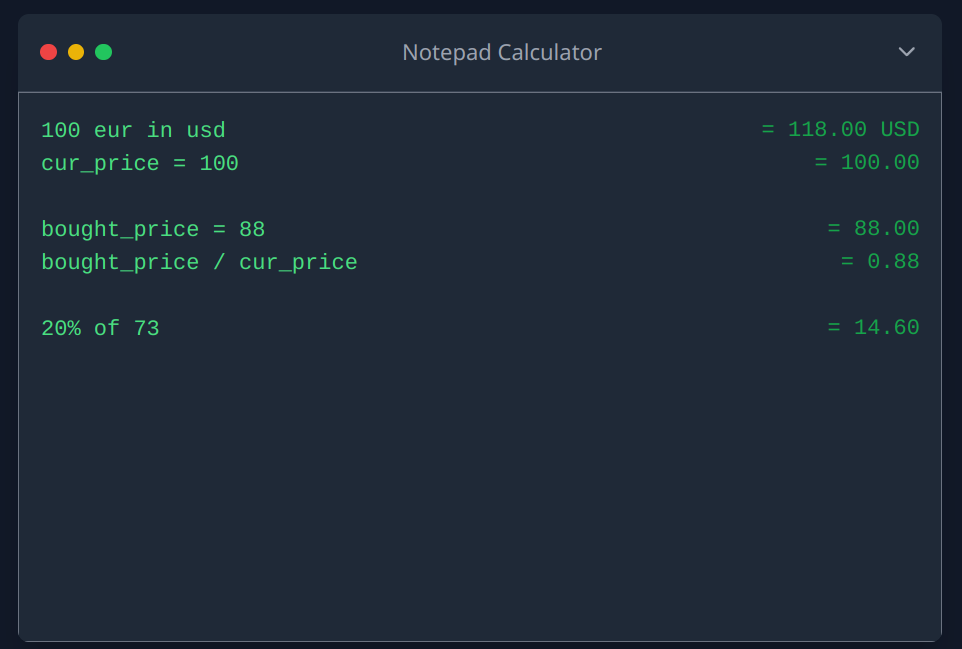
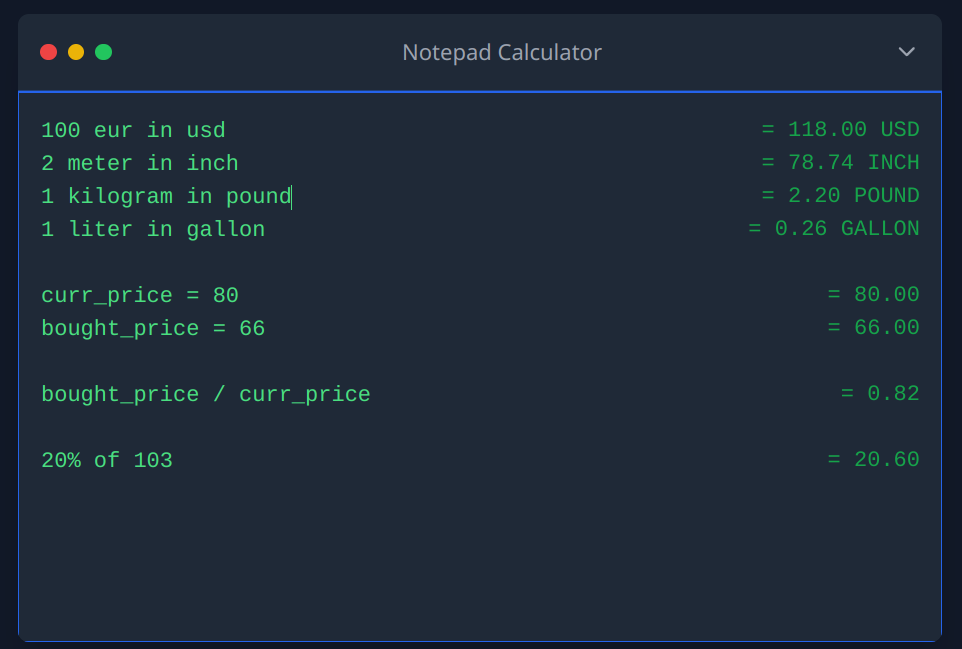
add new conversions

diff --git a/src/components/Calculator.jsx b/src/components/Calculator.jsx
@@ -58,7 +58,26 @@ const handleConversion = (tokens) => {
   const rates = {
     usd: { eur: 0.85, gbp: 0.73 },
     eur: { usd: 1.18, gbp: 0.86 },
-    gbp: { usd: 1.37, eur: 1.16 }
+    gbp: { usd: 1.37, eur: 1.16 },
+    // Length conversions
+    meter: { kilometer: 0.001, centimeter: 100, millimeter: 1000, inch: 39.3701, foot: 3.28084 },
+    kilometer: { meter: 1000, centimeter: 100000, millimeter: 1000000, inch: 39370.1, foot: 3280.84 },
+    centimeter: { meter: 0.01, kilometer: 0.00001, millimeter: 10, inch: 0.393701, foot: 0.0328084 },
+    millimeter: { meter: 0.001, kilometer: 0.000001, centimeter: 0.1, inch: 0.0393701, foot: 0.00328084 },
+    inch: { meter: 0.0254, kilometer: 0.0000254, centimeter: 2.54, millimeter: 25.4, foot: 0.0833333 },
+    foot: { meter: 0.3048, kilometer: 0.0003048, centimeter: 30.48, millimeter: 304.8, inch: 12 },
+    // Weight conversions
+    kilogram: { gram: 1000, milligram: 1000000, pound: 2.20462, ounce: 35.274 },
+    gram: { kilogram: 0.001, milligram: 1000, pound: 0.00220462, ounce: 0.035274 },
+    milligram: { kilogram: 0.000001, gram: 0.001, pound: 0.00000220462, ounce: 0.000035274 },
+    pound: { kilogram: 0.453592, gram: 453.592, milligram: 453592, ounce: 16 },
+    ounce: { kilogram: 0.0283495, gram: 28.3495, milligram: 28349.5, pound: 0.0625 },
+    // Volume conversions
+    liter: { milliliter: 1000, cubic_meter: 0.001, gallon: 0.264172, quart: 1.05669 },
+    milliliter: { liter: 0.001, cubic_meter: 0.000001, gallon: 0.000264172, quart: 0.00105669 },
+    cubic_meter: { liter: 1000, milliliter: 1000000, gallon: 264.172, quart: 1056.69 },
+    gallon: { liter: 3.78541, milliliter: 3785.41, cubic_meter: 0.00378541, quart: 4 },
+    quart: { liter: 0.946353, milliliter: 946.353, cubic_meter: 0.000946353, gallon: 0.25 }
   };
 
   if (rates[fromUnit] && rates[fromUnit][toUnit]) {

diff --git a/README.md b/README.md
@@ -17,6 +17,22 @@
 ### Currency Conversions
 - **Syntax:** `amount from_currency in to_currency`
 - **Example:** `10 USD in EUR`
+- **Supported Currencies:** USD, EUR, GBP
+
+### Length Conversions
+- **Syntax:** `amount from_unit in to_unit`
+- **Example:** `1 meter in inch`
+- **Supported Units:** meter, kilometer, centimeter, millimeter, inch, foot
+
+### Weight Conversions
+- **Syntax:** `amount from_unit in to_unit`
+- **Example:** `1 kilogram in pound`
+- **Supported Units:** kilogram, gram, milligram, pound, ounce
+
+### Volume Conversions
+- **Syntax:** `amount from_unit in to_unit`
+- **Example:** `1 liter in gallon`
+- **Supported Units:** liter, milliliter, cubic_meter, gallon, quart
 
 ### Percentage Calculations
 - **Syntax:** `percentage% of value`
